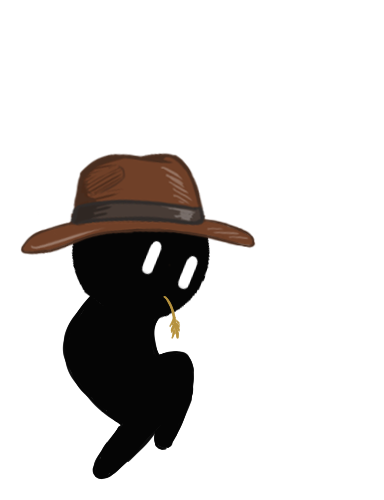
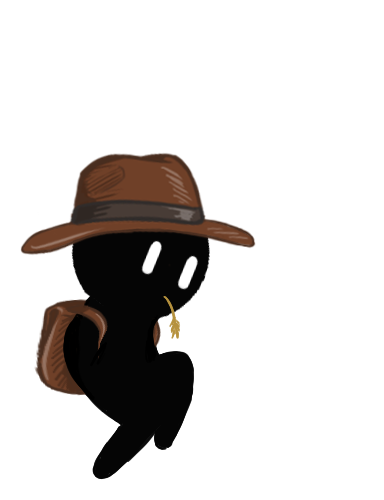
wtf is even happening

Changed region(s): [[0.0938, 0.6, 0.2812, 0.81], [0.375, 0.63, 0.4375, 0.69]]

diff --git a/src/render.c b/src/render.c
@@ -122,10 +122,16 @@ void drawPlayer(){
     else {
       if (player->ySpeed > 0){
           printf("FALL\n");
-        SDL_RenderCopyEx(renderer, spriteJUMPTexture[13 + (SDL_GetTicks()/50)%18], NULL, &rect, 0, NULL, SDL_FLIP_HORIZONTAL * (1 - player->direction));
+          rect.w *= 1.53;
+          rect.h *= 1.38;
+          rect.y -= 60;
+        SDL_RenderCopyEx(renderer, spriteJUMPTexture[12 + (SDL_GetTicks()/50)%14], NULL, &rect, 0, NULL, SDL_FLIP_HORIZONTAL * (1 - player->direction));
       }else {
           printf("JUMP\n");
-        SDL_RenderCopyEx(renderer, spriteJUMPTexture[(SDL_GetTicks()/50)%13], NULL, &rect, 0, NULL, SDL_FLIP_HORIZONTAL * (1 - player->direction));
+          rect.w *= 1.53;
+          rect.h *= 1.38;
+          rect.y -= 60;
+        SDL_RenderCopyEx(renderer, spriteJUMPTexture[(SDL_GetTicks()/50)%20], NULL, &rect, 0, NULL, SDL_FLIP_HORIZONTAL * (1 - player->direction));
       }
 
     }
@@ -215,19 +221,19 @@ void MainDrawLoop(){
 
     }
 
-    for(int i = 10; i < 13; i++) {
+    for(int i = 10; i < 20; i++) {
       char filename[100];
       sprintf(filename, "../assets/jump/jump_hat/jump_hat00%d.png", i);
       spriteJUMPSurface[i] = IMG_Load(filename);
       spriteJUMPTexture[i] = SDL_CreateTextureFromSurface(renderer, spriteJUMPSurface[i]);
-      SDL_FreeSurface(spriteSurface[i]);
+      SDL_FreeSurface(spriteJUMPSurface[i]);
       sprintf(filename, "../assets/jump/jump_golden_hat/jump_golden_hat00%d.png", i);
       spriteJUMPGOLDENSurface[i] = IMG_Load(filename);
       spriteJUMPGOLDENTexture[i] = SDL_CreateTextureFromSurface(renderer, spriteJUMPGOLDENSurface[i]);
       SDL_FreeSurface(spriteJUMPGOLDENSurface[i]);
     }
 
-    for(int i = 13; i < 26; i++) {
+    for(int i = 12; i < 26; i++) {
       char filename[100];
       sprintf(filename, "../assets/jump/fall_hat/fall_hat00%d.png", i);
       spriteJUMPSurface[i] = IMG_Load(filename);
